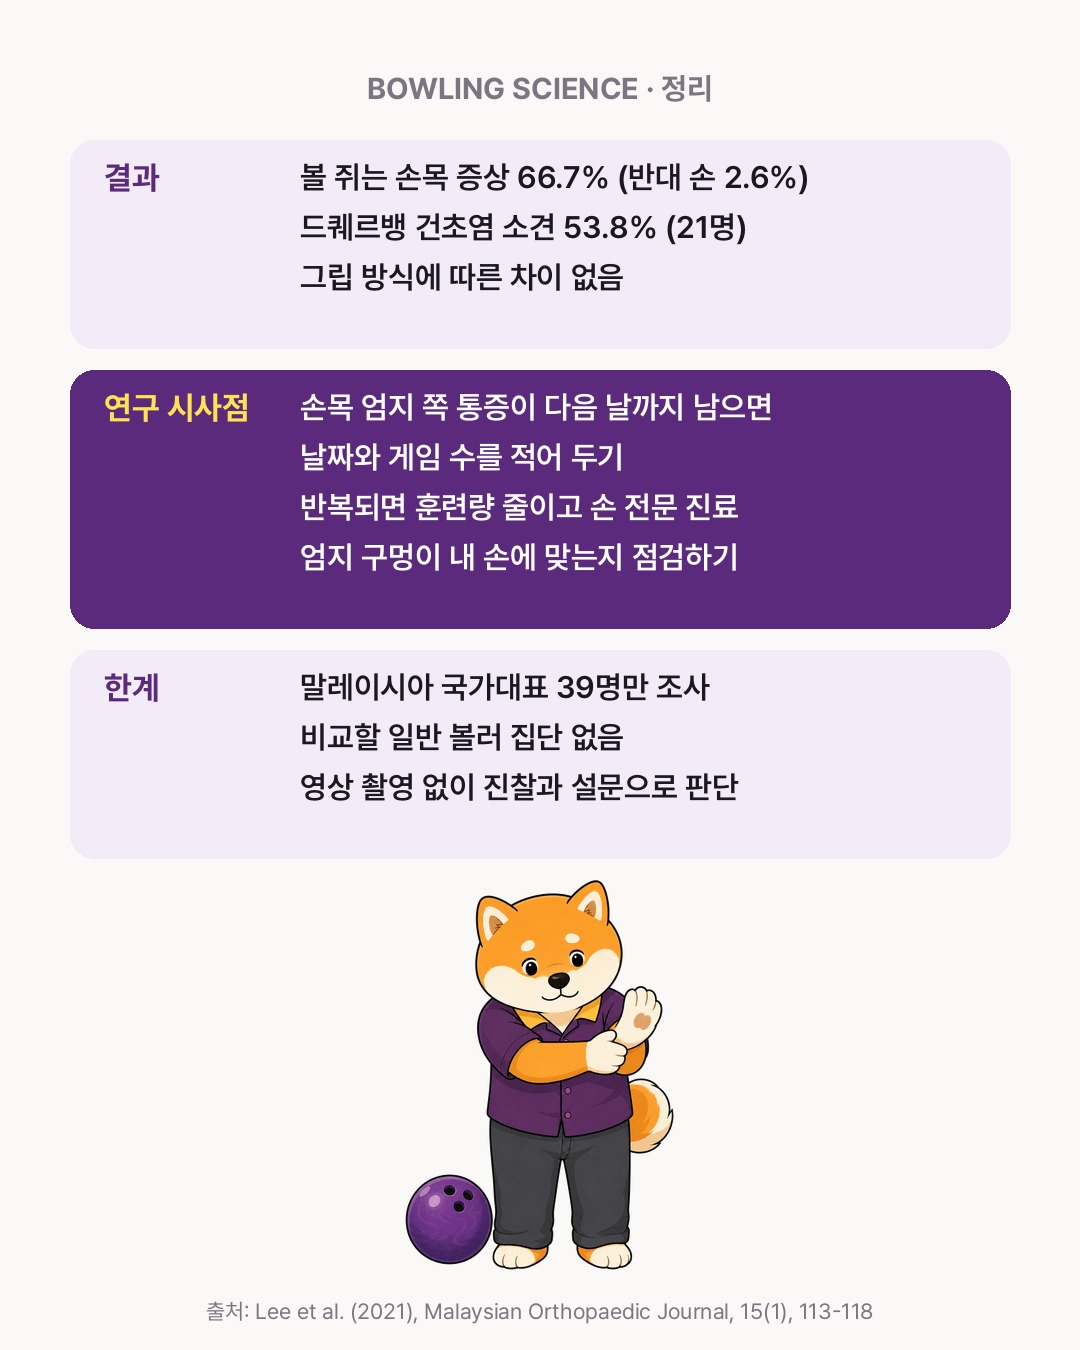
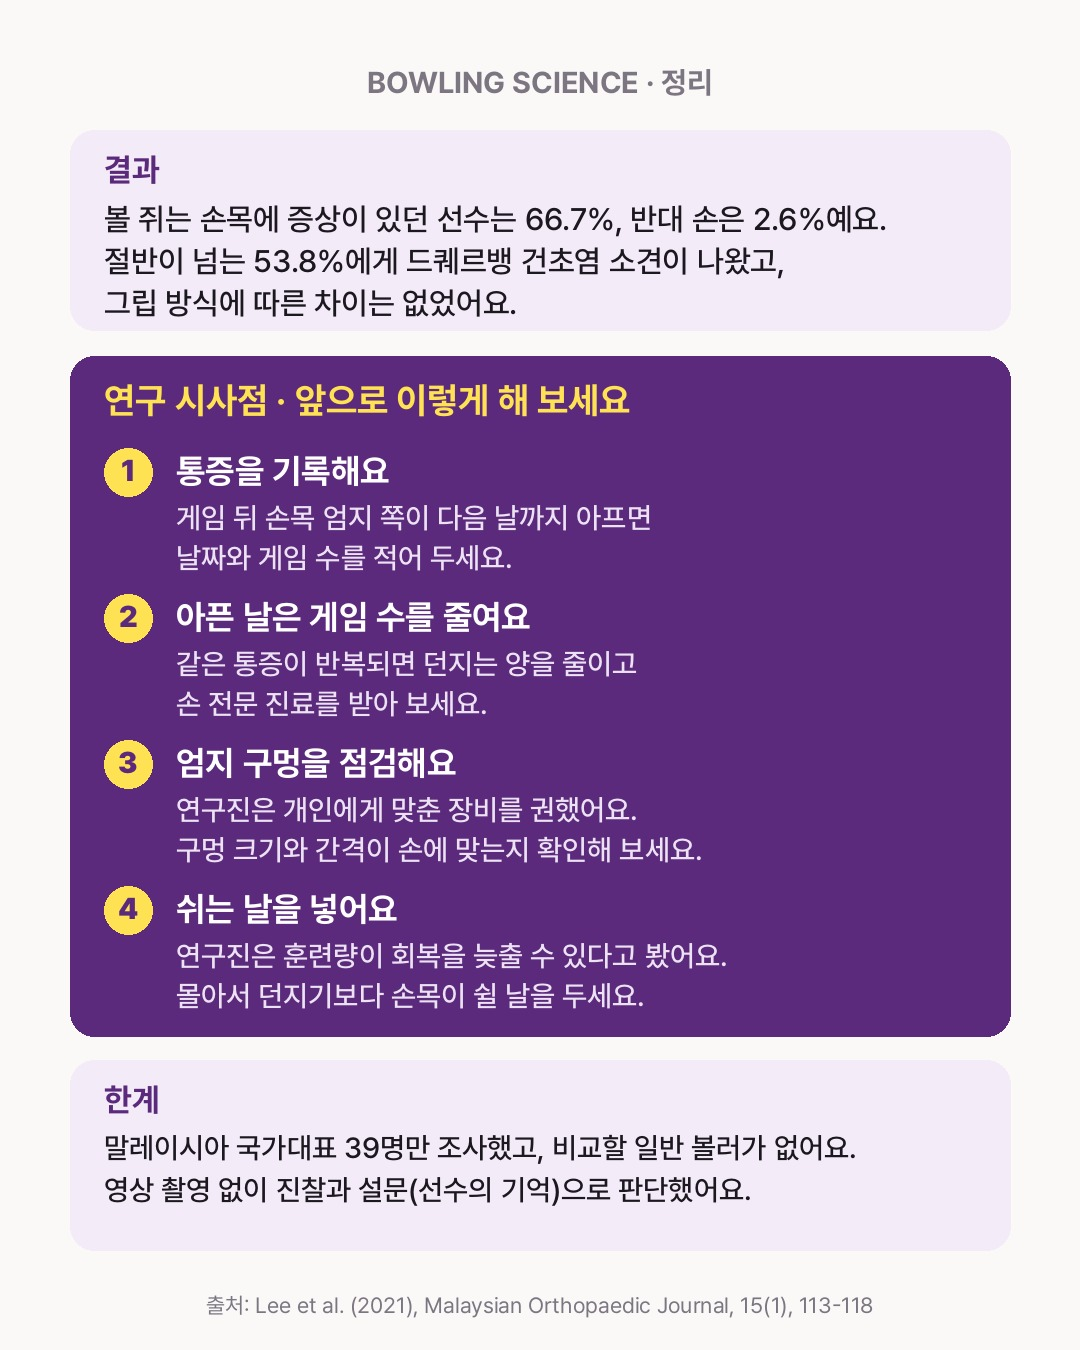
EP.06 정리 카드: 결과·할 일 4가지·한계를 문장으로 풀어 씀, 캡션 할 일 문단 맞춤

diff --git a/scripts/cards/ep06.py b/scripts/cards/ep06.py
@@ -256,24 +256,44 @@ def s_why():
     footer(d); return img
 
 
-# 10. 정리
+# 10. 정리: 결과 한 문단 + 앞으로 할 일 4가지(이유와 함께) + 한계
 def s_summary():
     img, d = base()
-    rc(d, 70, "BOWLING SCIENCE · 정리", font("Bold", 30), 44, T["gray"])
-    def sec(y, title, lines, fill):
-        d.rounded_rectangle((70, y, W - 70, y + 58 + 50 * len(lines)), radius=24, fill=fill)
-        d.text((104, y + 18), title, font=font("Bold", 32), fill=T["main"] if fill != T["main"] else T["mark"])
-        for i, t in enumerate(lines):
-            f = font("SemiBold", 31); assert d.textlength(t, font=f) < W - 140 - 260, t
-            d.text((300, y + 18 + i * 50), t, font=f, fill=WHITE if fill == T["main"] else T["ink"])
-        return y + 58 + 50 * len(lines) + 22
-    y = 140
-    y = sec(y, "결과", ["볼 쥐는 손목 증상 66.7% (반대 손 2.6%)", "드퀘르뱅 건초염 소견 53.8% (21명)", "그립 방식에 따른 차이 없음"], T["soft"])
-    y = sec(y, "연구 시사점", ["손목 엄지 쪽 통증이 다음 날까지 남으면", "날짜와 게임 수를 적어 두기", "반복되면 훈련량 줄이고 손 전문 진료", "엄지 구멍이 내 손에 맞는지 점검하기"], T["main"])
-    y = sec(y, "한계", ["말레이시아 국가대표 39명만 조사", "비교할 일반 볼러 집단 없음", "영상 촬영 없이 진찰과 설문으로 판단"], T["soft"])
-    a = art("10_cheer", h=1290 - y - 20, w=360); paste_c(img, a, W / 2, y)
-    f = font("Regular", 22)
-    ctext(d, W / 2, H - 52, "출처: Lee et al. (2021), Malaysian Orthopaedic Journal, 15(1), 113-118", f, T["gray"])
+    rc(d, 64, "BOWLING SCIENCE · 정리", font("Bold", 30), 44, T["gray"])
+    # 결과
+    d.rounded_rectangle((70, 130, W - 70, 330), radius=24, fill=T["soft"])
+    d.text((104, 150), "결과", font=font("Bold", 32), fill=T["main"])
+    for i, t in enumerate(["볼 쥐는 손목에 증상이 있던 선수는 66.7%, 반대 손은 2.6%예요.",
+                           "절반이 넘는 53.8%에게 드퀘르뱅 건초염 소견이 나왔고,",
+                           "그립 방식에 따른 차이는 없었어요."]):
+        f = font("Medium", 31); assert d.textlength(t, font=f) < W - 140 - 68, t
+        d.text((104, 200 + i * 42), t, font=f, fill=T["ink"])
+    # 앞으로 할 일
+    y = 356
+    d.rounded_rectangle((70, y, W - 70, y + 680), radius=24, fill=T["main"])
+    d.text((104, y + 22), "연구 시사점 · 앞으로 이렇게 해 보세요", font=font("Bold", 36), fill=T["mark"])
+    steps = [("통증을 기록해요", ["게임 뒤 손목 엄지 쪽이 다음 날까지 아프면", "날짜와 게임 수를 적어 두세요."]),
+             ("아픈 날은 게임 수를 줄여요", ["같은 통증이 반복되면 던지는 양을 줄이고", "손 전문 진료를 받아 보세요."]),
+             ("엄지 구멍을 점검해요", ["연구진은 개인에게 맞춘 장비를 권했어요.", "구멍 크기와 간격이 손에 맞는지 확인해 보세요."]),
+             ("쉬는 날을 넣어요", ["연구진은 훈련량이 회복을 늦출 수 있다고 봤어요.", "몰아서 던지기보다 손목이 쉴 날을 두세요."])]
+    yy = y + 90
+    for n, (h, body) in enumerate(steps, 1):
+        d.ellipse((104, yy + 2, 152, yy + 50), fill=T["mark"])
+        ctext(d, 128, yy + 6, str(n), font("Black", 30), T["main"])
+        d.text((176, yy + 4), h, font=font("Bold", 34), fill=WHITE)
+        for j, t in enumerate(body):
+            f = font("Medium", 29); assert d.textlength(t, font=f) < W - 70 - 176 - 30, t
+            d.text((176, yy + 54 + j * 40), t, font=f, fill=(236, 226, 244))
+        yy += 146
+    # 한계
+    y = 1060
+    d.rounded_rectangle((70, y, W - 70, y + 190), radius=24, fill=T["soft"])
+    d.text((104, y + 20), "한계", font=font("Bold", 32), fill=T["main"])
+    for i, t in enumerate(["말레이시아 국가대표 39명만 조사했고, 비교할 일반 볼러가 없어요.",
+                           "영상 촬영 없이 진찰과 설문(선수의 기억)으로 판단했어요."]):
+        f = font("Medium", 29); assert d.textlength(t, font=f) < W - 140 - 68, t
+        d.text((104, y + 70 + i * 42), t, font=f, fill=T["ink"])
+    ctext(d, W / 2, H - 58, "출처: Lee et al. (2021), Malaysian Orthopaedic Journal, 15(1), 113-118", font("Regular", 22), T["gray"])
     return img
 
 
